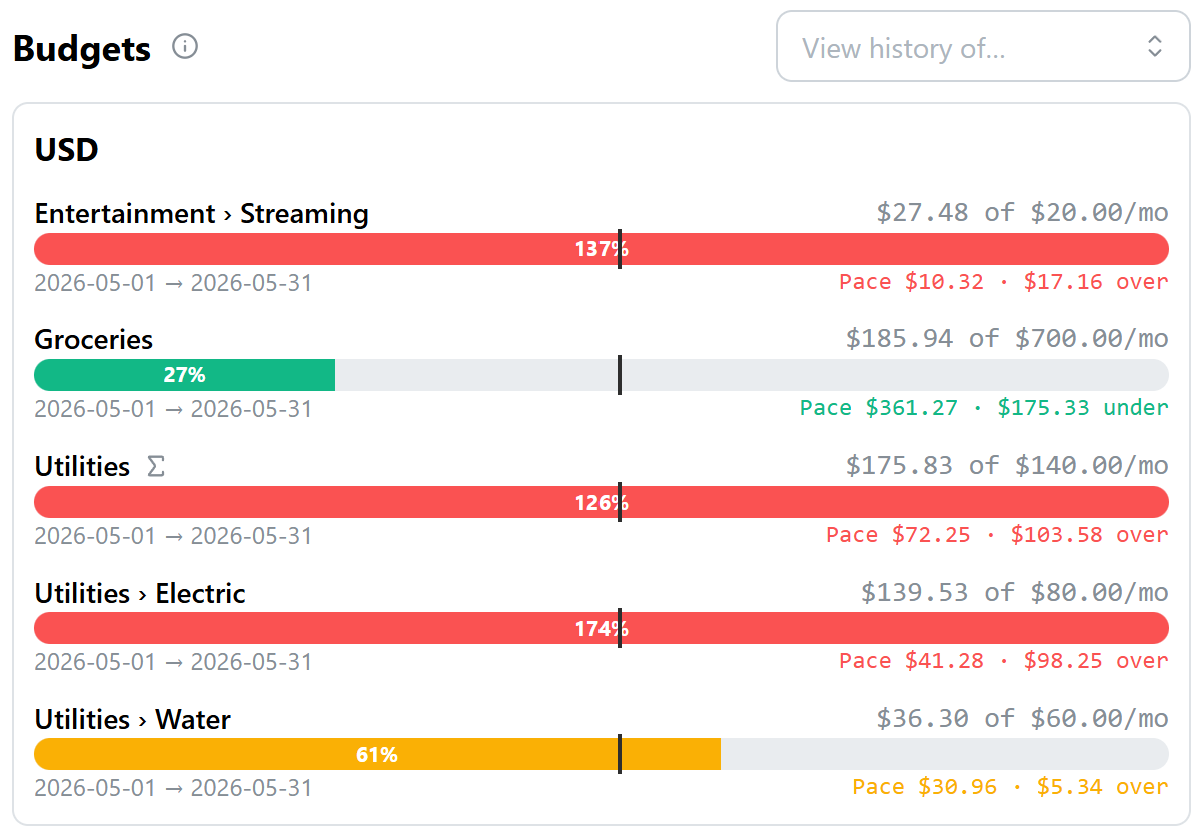
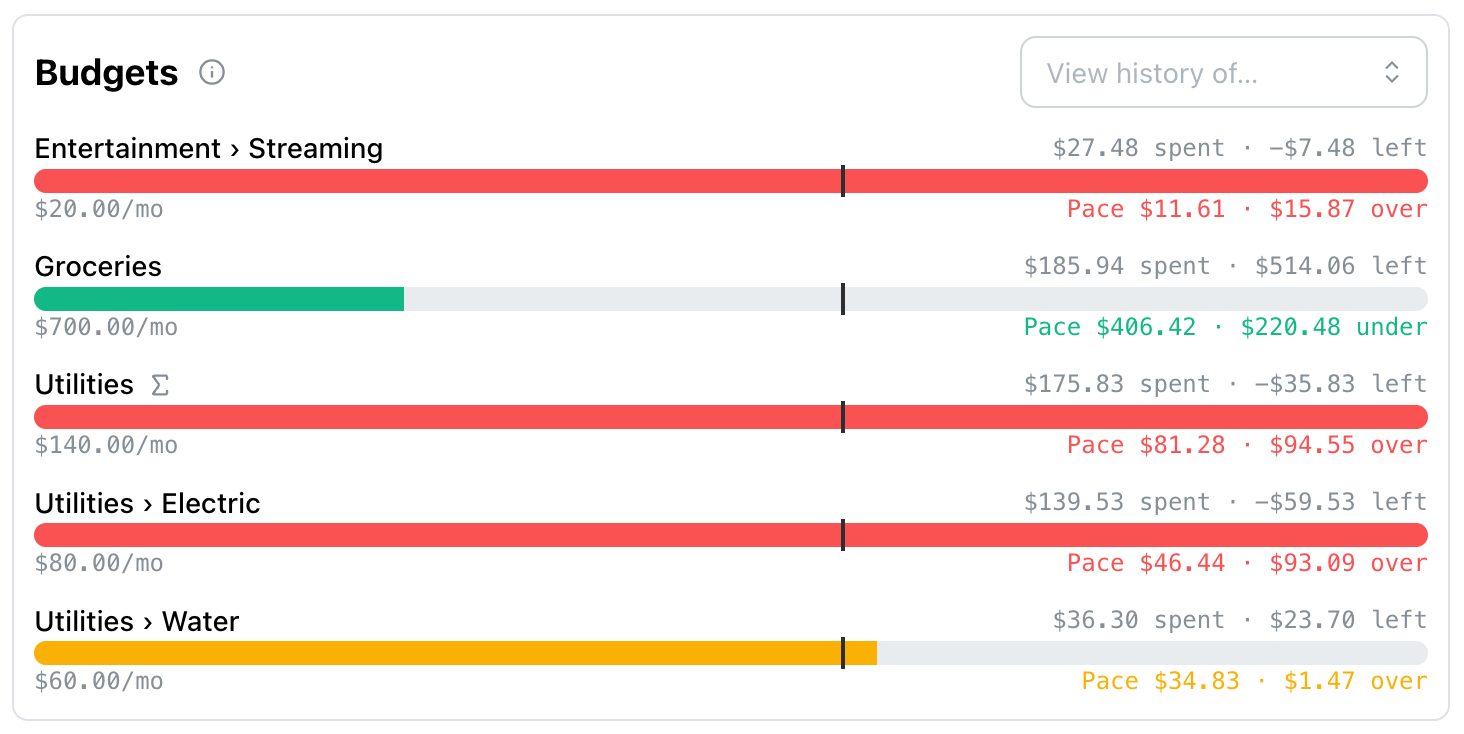
Update README and CHANGELOG

diff --git a/CHANGELOG.md b/CHANGELOG.md
@@ -4,6 +4,72 @@ All notable changes to this project will be documented here. The format
 follows [Keep a Changelog](https://keepachangelog.com/en/1.1.0/), and
 versions follow [Semantic Versioning](https://semver.org/).
 
+## [0.3.0] — 2026-05-18
+
+### Refunds
+
+- **New transaction type `refund`** with a `refunded_transaction_id`
+  FK linking back to the original expense (RESTRICT — the original
+  can't be deleted while refunds reference it; the central error
+  handler turns the FK violation into a friendly 409). Refund txs
+  carry a positive leg on the receiving account and positive lines
+  mirroring the original's categories.
+- **One-click create from any completed expense.** "Refund" button on
+  the edit screen → `/transactions/:id/refund`, a focused form that
+  shows each original line's amount disabled alongside an editable
+  refund-amount input. An X next to each line zeroes that line out;
+  the submit logic drops zero / empty lines.
+- **Effective-date analytics.** Refunds attribute their contribution
+  to the **original tx's date**, not the refund's posting date. A
+  March $30 grocery refunded in May makes March's grocery line net
+  to $0; May shows nothing. Same retroactive dating for net worth —
+  the chart never dips-and-rebounds for what was ultimately a wash.
+  Implementation: `effectiveDateExpr = COALESCE(original.date,
+tx.date)` + a self-join on `transactions.refunded_transaction_id`
+  across every cash-flow / category-tag / budget / net-worth handler.
+- **Signed-negative line sums.** Refund lines negate via
+  `CASE WHEN tx.type='refund' THEN -line.amount ELSE line.amount`
+  inside the line-aggregation expressions. Cash-flow's `Net` direction
+  routes refund legs into the `cashOut` bucket (positive leg → adds
+  to a negative sum → partially cancels the original outflow), and
+  excludes them from `cashIn` so refunds never look like income.
+- **List indicator.** Refund txs render `↶ Refund of <description>`
+  in their meta row, mirroring the `↻` bill indicator.
+- **Read-only post-create in v1.** UX simplification — editing would
+  need `TransactionForm` to learn `type: 'refund'` and surface the
+  immutable `refundedTransactionId`. Delete-and-recreate is the
+  workflow for now.
+
+### Server
+
+- New FK-violation (SQLSTATE 23503) branch in the centralized error
+  handler — surfaces friendly 409s for known constraints. First
+  consumer: the refund → original FK ("This transaction has refunds
+  linked to it. Delete the refunds first.").
+- Refund route guards on POST + PATCH: the target tx must exist in
+  the same workspace AND be `type = 'expense'`. PATCH also blocks
+  type changes from / to `refund` and re-asserts
+  `refundedTransactionId` immutability.
+
+### Data model
+
+- New `transaction_type` enum value: `refund`.
+- New `transactions.refunded_transaction_id` self-FK + index. See
+  migration `0003_public_echo.sql`.
+
+### UI / tooling
+
+- `primaryLabel` + `categoryLabel` + `isDebtPayment` extracted from
+  `transactions-list.tsx` into `features/transactions/tx-display.ts`
+  so the refund form's "Refunding X" header can reuse the same
+  resolution rules.
+- `TransactionForm` accepts an `extraActions?: ReactNode` prop so the
+  parent edit screen can inject the "Refund" button into the form's
+  action row (alongside Save / Cancel).
+- Two `FormEvent` usages replaced with the codebase's existing
+  `ComponentProps<"form">["onSubmit"]` pattern — `@types/react@19`
+  flagged the type as `@deprecated FormEvent doesn't actually exist`.
+
 ## [0.2.0] — 2026-05-16
 
 ### Budgets

diff --git a/README.md b/README.md
@@ -40,6 +40,14 @@ Friction points other personal-finance apps make you live with —
 
   <img alt="Loan account with amortization template + payment form" src="docs/screenshots/loans.png" width="300">
 
+- **First-class refunds.** Refunds are their own transaction type linked
+  back to the original. One click from any expense, per-line refund amounts.
+  Analytics net the refund against the original tx's date. Net worth doesn't
+  show a dip-and-rebound. The list row reads `↶ Refund of Whole Foods` and
+  links back to the original.
+
+  <img alt="Refund flow" src="docs/screenshots/refunds.png" width="300">
+
 - **Budgets with pace-aware progress bars.** Per-category or
   per-subcategory caps on weekly/monthly/yearly cycles, each rendered
   as a progress bar with a "where you should be" tick and over/under